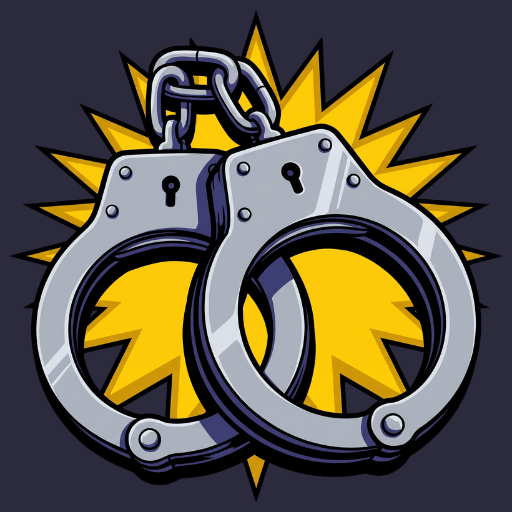
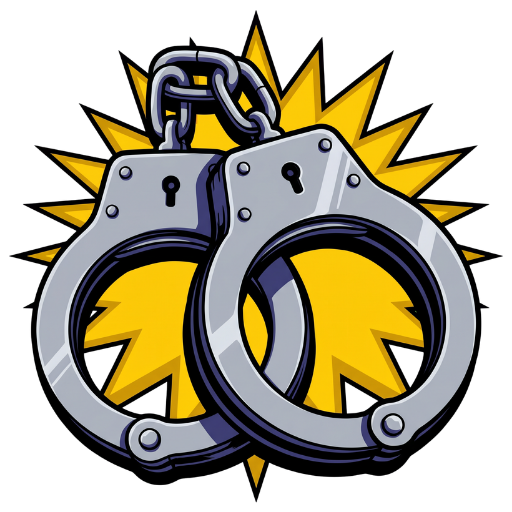
Fix Keyer fuer transparente Symbol-Exporte; neue Handschellen; Landing nur beim ersten Drop
- core.js: Loader erkennt bereits transparente PNG-Exporte (Ecken alpha~0) und ueberspringt
  den Background-Keyer -> kein Wegfressen dunkler Outlines mehr (Symbol war "weiss/ausgewaschen").
  Deckende Hintergruende (alte Symbole) werden weiterhin gekeyt.
- assets/symbols/symbol_mid_c.png: neue Handschellen-Artwork.
- grid.js: Landing-Animation nur beim ersten Board-Drop, nicht beim Nachdroppen (Tumble-Refills).

diff --git a/src/core.js b/src/core.js
@@ -151,6 +151,21 @@
     return cv;
   };
 
+  // Hat das Bild bereits einen transparenten Hintergrund? (Ecken alpha≈0)
+  // -> dann NICHT keyen, sonst frisst der Flood-Fill (bg≈schwarz aus den
+  // transparenten Ecken) die dunklen Outlines weg (Symbol wirkt weiß/ausgewaschen).
+  LF.isTransparentBg = function (img) {
+    const w = img.naturalWidth || img.width, h = img.naturalHeight || img.height;
+    const cv = document.createElement("canvas");
+    cv.width = w; cv.height = h;
+    const ctx = cv.getContext("2d", { willReadFrequently: true });
+    ctx.drawImage(img, 0, 0);
+    const pts = [[1, 1], [w - 2, 1], [1, h - 2], [w - 2, h - 2]];
+    let t = 0;
+    for (const [x, y] of pts) if (ctx.getImageData(x, y, 1, 1).data[3] < 16) t++;
+    return t >= 3;
+  };
+
   LF.loadAssets = async function () {
     const C = LF.CONFIG;
     await Promise.all(
@@ -161,8 +176,9 @@
             img.crossOrigin = "anonymous";
             img.onload = () => {
               try {
-                const cv = LF.keyOutBackground(img);
-                LF.textures[s.id] = PIXI.Texture.from(cv);
+                // Bereits transparente Exporte direkt nutzen; nur deckende Hintergründe keyen.
+                const src = LF.isTransparentBg(img) ? img : LF.keyOutBackground(img);
+                LF.textures[s.id] = PIXI.Texture.from(src);
                 resolve();
               } catch (e) { reject(e); }
             };

diff --git a/src/grid.js b/src/grid.js
@@ -547,7 +547,7 @@
             (async () => {
               await LF.delay((row - rr) * 25);
               await LF.tween.to(sp.position, { y }, C.TIMING.tumbleDrop, LF.ease.outBack);
-              sp.playLanding(); // Landing-Anim für nachgerutschte/neue Symbole
+              // KEIN Landing beim Nachdroppen (Tumble) -> Landing nur beim ersten Board-Drop.
             })()
           );
           spawnAbove++;